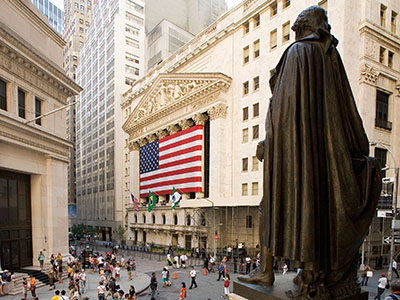
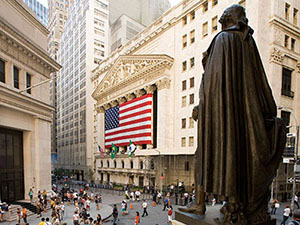
.placesCard, border radius

diff --git a/css/style.css b/css/style.css
@@ -262,12 +262,12 @@ article{
     } 
 
 .placesImage{
-    display: block;
-    position: relative;
+    display: block; 
+    position: relative; 
     width: 15rem;
     height: 15rem;
     overflow: hidden;
-    border-radius: 50%;
+    /* border-radius: 50%; */
     margin: 2rem auto;
     }
 
@@ -421,7 +421,6 @@ footer small a{
         column-count: 2;
         column-gap: 4%;
         padding: 4%;
-        box-sizing: border-box;
         }
 
     .placesCard h2{
@@ -436,10 +435,10 @@ footer small a{
         overflow: hidden;
         }
    
-   
     }
 
 @media(min-width:1200px){
+ 
     .placesImage img:hover{
         transform: scale(1.2);
         }
@@ -447,20 +446,11 @@ footer small a{
     .broadway:hover figcaption, .madison:hover figcaption{
         opacity: 1;
         }
+
     .placesCard{
         column-count: 3;
-    }
-     
-    .placesCard article{
-        width: 31.33%;
-       
         }
 
-    .placesCard iframe{
-        display: block;
-        /* position: absolute;
-        bottom: 0; */
-        }
 }
 
 
